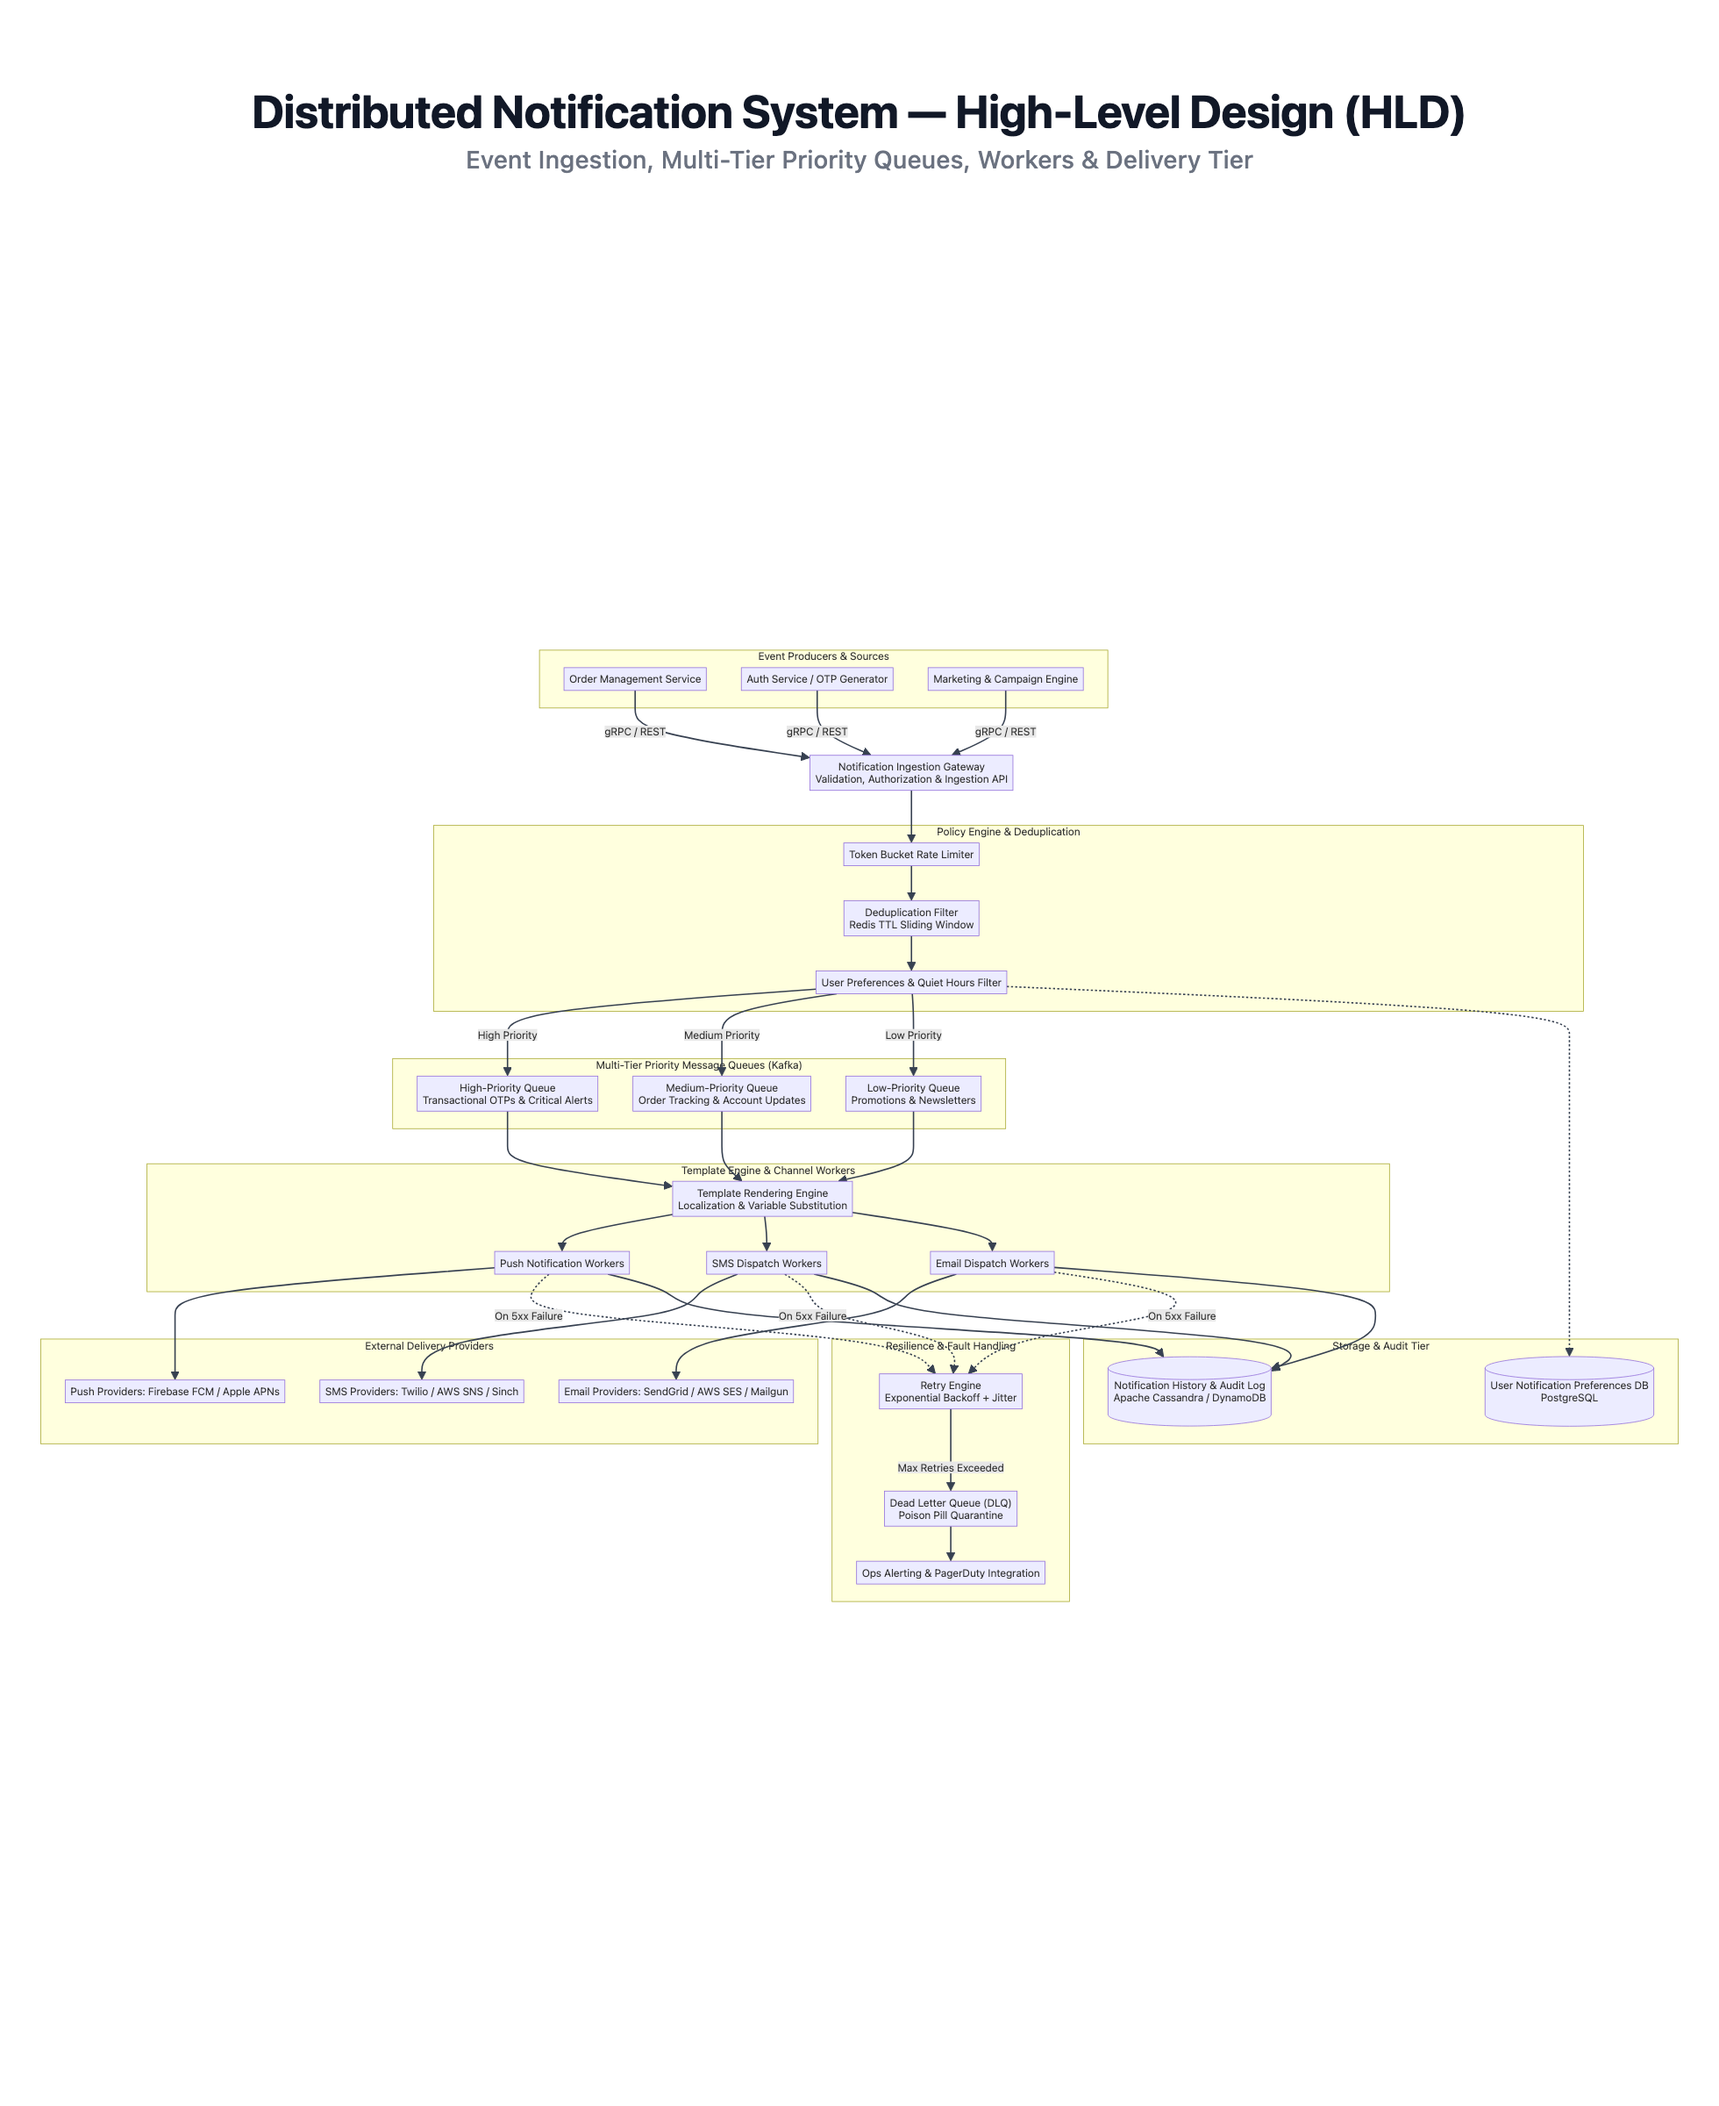
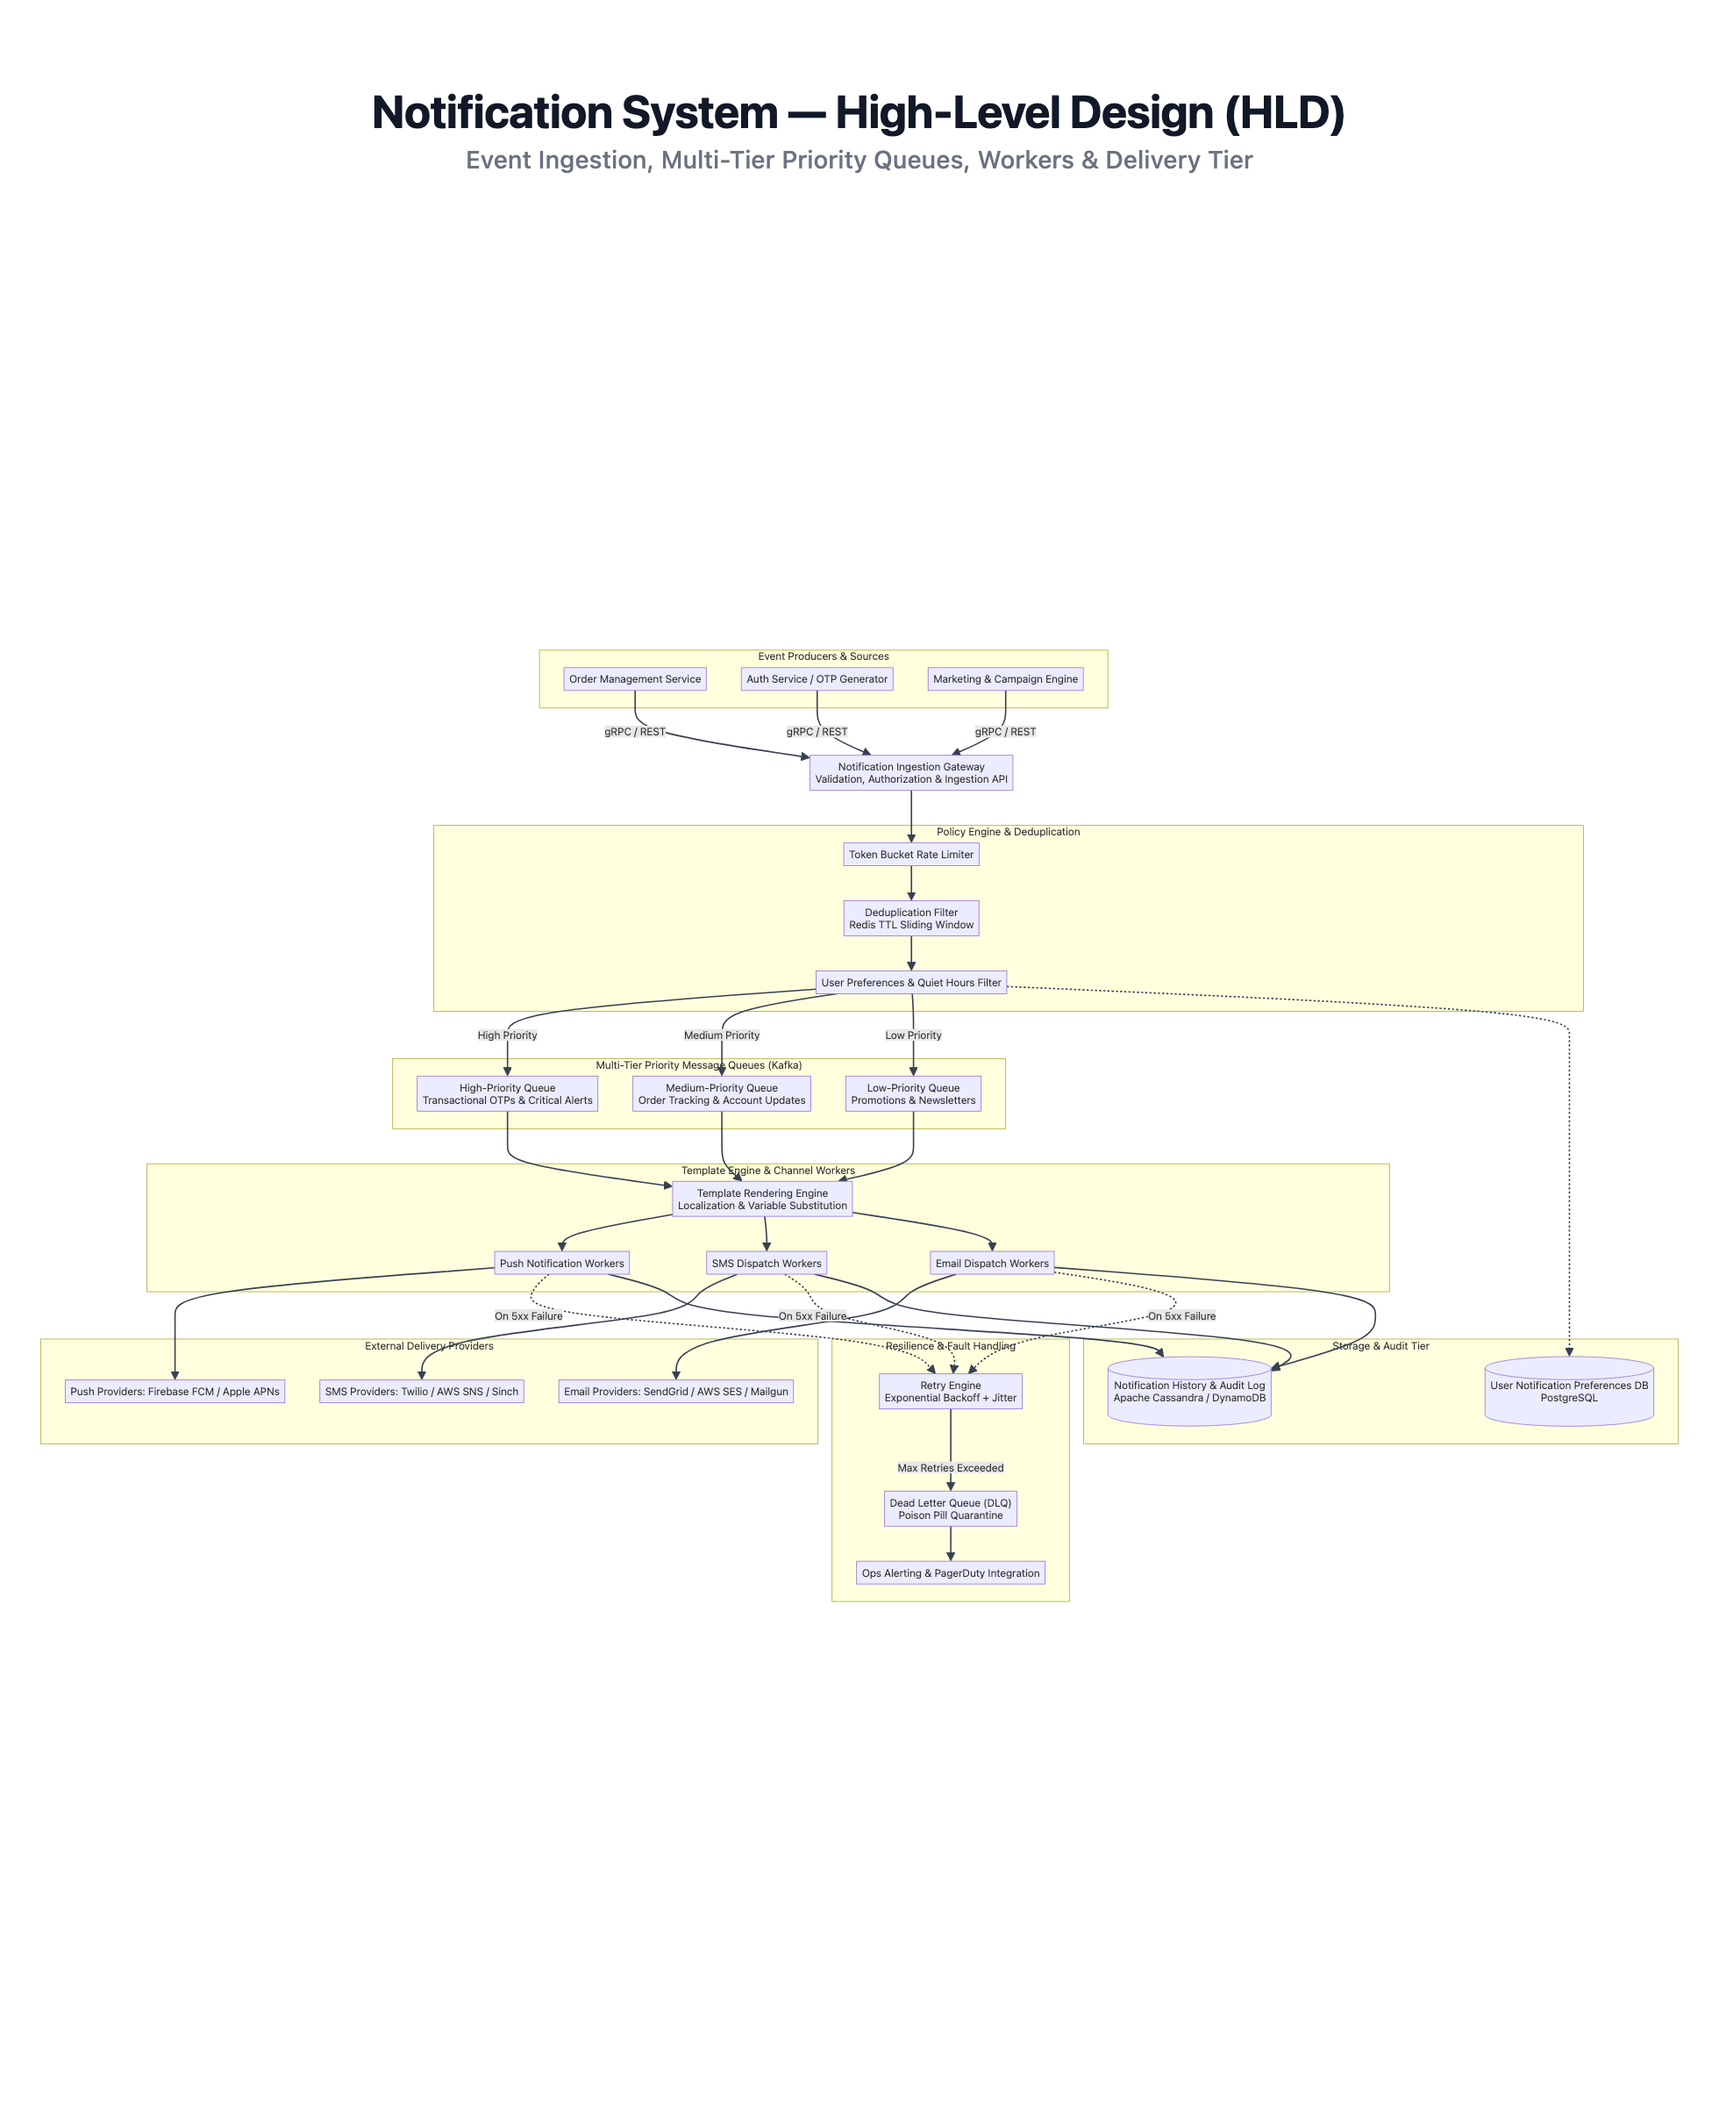
refactor: Update headings for Notification System and URL Shortener

Changed region(s): [[0.1556, 0.0312, 0.8714, 0.0625]]

diff --git a/02_Notification_System.md b/02_Notification_System.md
@@ -1,4 +1,4 @@
-# 🔔 Question 2: Distributed Notification System
+# 🔔 Question 2: Notification System
 
 **Subject**: System Design | **Subject Code**: TCS-504  
 **Author**: Anubhav Singh | **Institution**: Graphic Era Hill University  
@@ -35,7 +35,7 @@ A highly available, resilient, multi-channel notification engine capable of hand
 
 ## 🏛 2. High-Level Architecture
 
-![Distributed Notification System HLD](02_Notification_System_HLD.png)
+![Notification System HLD](02_Notification_System_HLD.png)
 
 <details>
 <summary><b>View Architecture Source (Mermaid)</b></summary>

diff --git a/03_URL_Shortener.md b/03_URL_Shortener.md
@@ -1,4 +1,4 @@
-# 🔗 Question 3: Distributed URL Shortener (Bitly)
+# 🔗 Question 3: URL Shortener (Bitly)
 
 **Subject**: System Design | **Subject Code**: TCS-504  
 **Author**: Anubhav Singh | **Institution**: Graphic Era Hill University  
@@ -32,7 +32,7 @@ A highly scalable, ultra-low latency distributed URL shortening platform enginee
 
 ## 🏛 2. High-Level Architecture
 
-![Distributed URL Shortener HLD](03_URL_Shortener_HLD.png)
+![URL Shortener HLD](03_URL_Shortener_HLD.png)
 
 <details>
 <summary><b>View Architecture Source (Mermaid)</b></summary>
